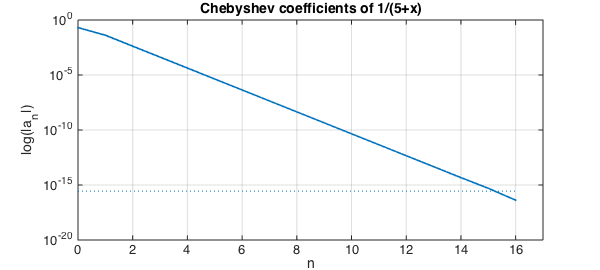
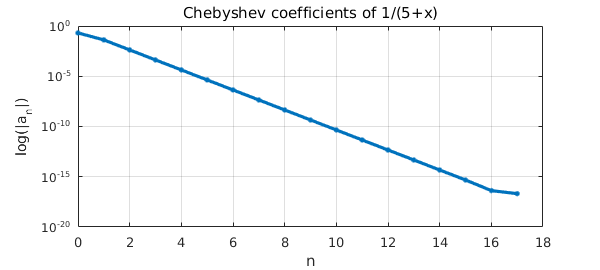
Republish example cheb/ExactChebCoeffs.
LNT made a few edits, but for some reason, the publishing procedure
isn't working for him.  Will need to investigate further.

Changed region(s): [[0.03, 0.0, 0.93, 0.9481], [0.51, 0.9481, 0.54, 1.0]]

diff --git a/examples/cheb/ExactChebCoeffs.html b/examples/cheb/ExactChebCoeffs.html
@@ -62,58 +62,51 @@
 <div class="row main">
 <div id='content' class="col-sm-12 example" role="main">
 <h3 id="1-introduction">1. Introduction</h3>
-<p>In this example, we shall compare the results of the Chebfun construction process to a known closed-form formula for the Chebyshev expansion coefficients of a function with a pole.</p>
-<p>This gives us an excellent excuse to visit some interesting approximation theory from the 1960s!</p>
+<p>In this example, we shall compare the results of the Chebfun construction process to a known closed-form formula for the Chebyshev expansion coefficients of a function with a pole. This gives us an excellent excuse to visit some interesting approximation theory from the 1960s!</p>
 <h3 id="2-the-residue-method-of-elliott">2. The residue method of Elliott</h3>
 <p>For certain functions, explicit formulas for the coefficients in the Chebsyhev series expansion may be obtained using a contour integral technique described by Elliott [1]. Here is how it works:</p>
-<p>The Chebsyhev coefficients of a Lipschitz-continuous function $f$ can be determined by the integral $$ a_n = \frac{2}{\pi} \int_{-1}^{1} \frac{f(x)T_n(x)}{\sqrt{1-x^2}} {\rm d} x.$$</p>
-<p>If $f(x)$ is analytic within a particular contour $C$ in the complex plane, then by Cauchy's integral formula, we can also write $$ f(x) = \frac{1}{2 \pi i} \int_{C} \frac{f(z)}{z-x} {\rm d} z. $$</p>
-<p>If $C$ is large enough to enclose the unit interval, then the second of these two formulas can be substituted into the first and the orders of integration interchanged to give $$ a_n = \frac{1}{\pi^2 i} \int_C f(z) \int_{-1}^{1} \frac{T_n(x) {\rm d} x}{(z-x)\sqrt{1-x^2}} {\rm d} z. $$</p>
-<p>The integral with respect to $x$ can be computed exactly so that we end up with $$a_n = \frac{1}{\pi i} \int_{C} \frac{f(z)}{\sqrt{z^2-1}(z \pm \sqrt{z^2-1})^n} {\rm d} z. $$</p>
-<p>Here, we note that $\rho = |z \pm \sqrt{z^2-1}|$ is the parameter of the usual Bernstein Ellipse $E_\rho$ with the point $z = x + iy$ on its boundary.</p>
-<p>So, if $f$ is a function with a pole at $z_0$ whose integral around $E_\rho$ tends to zero as $\rho \to \infty$, then by the residue theorem we have $$ a_n = \frac{-2r_0}{\sqrt{z_0^2-1}(z_0 \pm \sqrt{z_0^2-1})^n}, $$ where $r_0$ is the residue of the pole at $z_0$.</p>
+<p>The Chebsyhev coefficients of a Lipschitz-continuous function $f$ can be determined by the integral $$ a_n = \frac{2}{\pi} \int_{-1}^{1} \frac{f(x)T_n(x)}{\sqrt{1-x^2}} {\rm d} x. $$ If $f(x)$ is analytic within a particular contour $C$ in the complex plane, then by Cauchy's integral formula, we can also write $$ f(x) = \frac{1}{2 \pi i} \int_{C} \frac{f(z)}{z-x} {\rm d} z. $$ If $C$ is large enough to enclose the unit interval, then the second of these two formulas can be substituted into the first and the orders of integration interchanged to give $$ a_n = \frac{1}{\pi^2 i} \int_C f(z) \int_{-1}^{1} \frac{T_n(x) {\rm d} x}{(z-x)\sqrt{1-x^2}} {\rm d} z. $$ The integral with respect to $x$ can be computed exactly so that we end up with $$ a_n = \frac{1}{\pi i} \int_{C} \frac{f(z)}{\sqrt{z^2-1}(z \pm \sqrt{z^2-1})^n} {\rm d} z. $$</p>
+<p>Here, we note that $\rho = |z \pm \sqrt{z^2-1}|$ is the parameter of the usual Bernstein ellipse $E_\rho$ with the point $z = x + iy$ on its boundary. So, if $f$ is a function with a pole at $z_0$ whose integral around $E_\rho$ tends to zero as $\rho \to \infty$, then by the residue theorem we have $$ a_n = \frac{-2r_0}{\sqrt{z_0^2-1}(z_0 \pm \sqrt{z_0^2-1})^n}, $$ where $r_0$ is the residue of the pole at $z_0$.</p>
 <h3 id="3-a-function-with-pole">3. A function with  pole</h3>
-<p>As an example, consider the function $$ f(x) = \frac{1}{5 + x} . $$</p>
-<p>This function can be represented in Chebfun by an interpolant in 17 points.</p>
+<p>As an example, consider the function $$ f(x) = \frac{1}{5 + x}. $$ This function can be represented in Chebfun by an interpolant in 17 points.</p>
 <pre class="mcode-input">f  = @(x) 1./(5+x);
 fc = chebfun(f);
 k = 1:length(fc);</pre>
 
-<p>The function has a pole at $-5$ with residue $1$. Substituting these values into the above formula then gives the following exact expression for the Chebyshev expansion coefficients: $$ a_n =  \frac{1}{\sqrt{6}} \frac{(-1)^n}{(5+\sqrt{24})^n} $$</p>
-<p>The theoretical coefficients match those computed by Chebfun, apart from floating point representation and aliasing effects. The $a_0$ coefficient is out by the usual factor of $2$.</p>
+<p>The function has a pole at $-5$ with residue $1$. Substituting these values into the above formula then gives the following exact expression for the Chebyshev expansion coefficients: $$ a_n =  \frac{1}{\sqrt{6}} \frac{(-1)^n}{(5+\sqrt{24})^n}. $$ The theoretical coefficients match those computed by Chebfun, apart from floating point representation and aliasing effects. The $a_0$ coefficient is out by the usual factor of $2$:</p>
 <pre class="mcode-input">exact_coeffs = (1/sqrt(6)*(-1).^(k-1)./(5+sqrt(24)).^(k-1)).';
 cheb_coeffs = chebcoeffs(fc);
 display([exact_coeffs cheb_coeffs exact_coeffs-cheb_coeffs])
 
-FS = 'fontsize'; fs = 14;
-plotcoeffs(fc,'linewidth',1.6)
-title('Chebyshev coefficients of 1/(5+x)',FS,fs)
+plotcoeffs(fc,'.-')
+title('Chebyshev coefficients of 1/(5+x)')
 xlabel('n'), ylabel('log(|a_n|)'), grid on</pre>
 
 <pre class="mcode-output">ans =
    0.408248290463863   0.204124145231932   0.204124145231932
-  -0.041241452319315  -0.041241452319315   0.000000000000000
+  -0.041241452319315  -0.041241452319315                   0
    0.004166232729288   0.004166232729288  -0.000000000000000
-  -0.000420874973563  -0.000420874973563   0.000000000000000
-   0.000042517006342   0.000042517006342  -0.000000000000000
-  -0.000004295089853  -0.000004295089853  -0.000000000000000
+  -0.000420874973563  -0.000420874973563  -0.000000000000000
+   0.000042517006342   0.000042517006342   0.000000000000000
+  -0.000004295089853  -0.000004295089853   0.000000000000000
    0.000000433892186   0.000000433892186   0.000000000000000
   -0.000000043832012  -0.000000043832012   0.000000000000000
-   0.000000004427932   0.000000004427932  -0.000000000000000
+   0.000000004427932   0.000000004427932   0.000000000000000
   -0.000000000447312  -0.000000000447312  -0.000000000000000
    0.000000000045188   0.000000000045188  -0.000000000000000
   -0.000000000004565  -0.000000000004565   0.000000000000000
    0.000000000000461   0.000000000000461   0.000000000000000
   -0.000000000000047  -0.000000000000047   0.000000000000000
    0.000000000000005   0.000000000000005   0.000000000000000
-  -0.000000000000000  -0.000000000000001   0.000000000000000
+  -0.000000000000000  -0.000000000000000   0.000000000000000
    0.000000000000000   0.000000000000000   0.000000000000000
+  -0.000000000000000  -0.000000000000000   0.000000000000000
 </pre>
 
-<p><img src="img/ExactChebCoeffs_01.png" class="figure" alt=""></p>
+<p><img src="img/ExactChebCoeffs_01.png" class="figure" alt=""/></p>
 <h3 id="references">References</h3>
 <ol>
-<li>D. Elliott, The evaluation and estimation of the coefficients in the    Chebyshev series expansion of a function, <em>Mathematics of    Computation</em>, 18 (1964), 274-284.</li>
+<li>D. Elliott, The evaluation and estimation of the coefficients in the Chebyshev series expansion of a function, <em>Mathematics of Computation</em>, 18 (1964), 274-284.</li>
 </ol></div>
         </div>
     </div>

diff --git a/examples/cheb/img/ExactChebCoeffs.html b/examples/cheb/img/ExactChebCoeffs.html
@@ -9,9 +9,7 @@ meta: "(Chebfun example cheb/ExactChebCoeffs.m) [Tags: #Chebyshevcoefficients, #
 
 ## 1. Introduction
 
-In this example, we shall compare the results of the Chebfun construction process to a known closed-form formula for the Chebyshev expansion coefficients of a function with a pole.
-
-This gives us an excellent excuse to visit some interesting approximation theory from the 1960s!
+In this example, we shall compare the results of the Chebfun construction process to a known closed-form formula for the Chebyshev expansion coefficients of a function with a pole. This gives us an excellent excuse to visit some interesting approximation theory from the 1960s!
 
 
 
@@ -19,62 +17,50 @@ This gives us an excellent excuse to visit some interesting approximation theory
 
 For certain functions, explicit formulas for the coefficients in the Chebsyhev series expansion may be obtained using a contour integral technique described by Elliott [1]. Here is how it works:
 
-The Chebsyhev coefficients of a Lipschitz-continuous function $f$ can be determined by the integral $$ a_n = \frac{2}{\pi} \int_{-1}^{1} \frac{f(x)T_n(x)}{\sqrt{1-x^2}} {\rm d} x.$$
+The Chebsyhev coefficients of a Lipschitz-continuous function $f$ can be determined by the integral $$ a_n = \frac{2}{\pi} \int_{-1}^{1} \frac{f(x)T_n(x)}{\sqrt{1-x^2}} {\rm d} x. $$ If $f(x)$ is analytic within a particular contour $C$ in the complex plane, then by Cauchy's integral formula, we can also write $$ f(x) = \frac{1}{2 \pi i} \int_{C} \frac{f(z)}{z-x} {\rm d} z. $$ If $C$ is large enough to enclose the unit interval, then the second of these two formulas can be substituted into the first and the orders of integration interchanged to give $$ a_n = \frac{1}{\pi^2 i} \int_C f(z) \int_{-1}^{1} \frac{T_n(x) {\rm d} x}{(z-x)\sqrt{1-x^2}} {\rm d} z. $$ The integral with respect to $x$ can be computed exactly so that we end up with $$ a_n = \frac{1}{\pi i} \int_{C} \frac{f(z)}{\sqrt{z^2-1}(z \pm \sqrt{z^2-1})^n} {\rm d} z. $$
 
-If $f(x)$ is analytic within a particular contour $C$ in the complex plane, then by Cauchy's integral formula, we can also write $$ f(x) = \frac{1}{2 \pi i} \int_{C} \frac{f(z)}{z-x} {\rm d} z. $$
-
-If $C$ is large enough to enclose the unit interval, then the second of these two formulas can be substituted into the first and the orders of integration interchanged to give $$ a_n = \frac{1}{\pi^2 i} \int_C f(z) \int_{-1}^{1} \frac{T_n(x) {\rm d} x}{(z-x)\sqrt{1-x^2}} {\rm d} z. $$
-
-The integral with respect to $x$ can be computed exactly so that we end up with $$a_n = \frac{1}{\pi i} \int_{C} \frac{f(z)}{\sqrt{z^2-1}(z \pm \sqrt{z^2-1})^n} {\rm d} z. $$
-
-Here, we note that $\rho = |z \pm \sqrt{z^2-1}|$ is the parameter of the usual Bernstein Ellipse $E_\rho$ with the point $z = x + iy$ on its boundary.
-
-So, if $f$ is a function with a pole at $z_0$ whose integral around $E_\rho$ tends to zero as $\rho \to \infty$, then by the residue theorem we have $$ a_n = \frac{-2r_0}{\sqrt{z_0^2-1}(z_0 \pm \sqrt{z_0^2-1})^n}, $$ where $r_0$ is the residue of the pole at $z_0$.
+Here, we note that $\rho = |z \pm \sqrt{z^2-1}|$ is the parameter of the usual Bernstein ellipse $E_\rho$ with the point $z = x + iy$ on its boundary. So, if $f$ is a function with a pole at $z_0$ whose integral around $E_\rho$ tends to zero as $\rho \to \infty$, then by the residue theorem we have $$ a_n = \frac{-2r_0}{\sqrt{z_0^2-1}(z_0 \pm \sqrt{z_0^2-1})^n}, $$ where $r_0$ is the residue of the pole at $z_0$.
 
 
 
 ## 3. A function with  pole
 
-As an example, consider the function $$ f(x) = \frac{1}{5 + x} . $$
-
-This function can be represented in Chebfun by an interpolant in 17 points.
+As an example, consider the function $$ f(x) = \frac{1}{5 + x}. $$ This function can be represented in Chebfun by an interpolant in 17 points.
 
 <pre class="mcode-input">f  = @(x) 1./(5+x);
 fc = chebfun(f);
-k = 1:length(fc);</pre>The function has a pole at $-5$ with residue $1$. Substituting these values into the above formula then gives the following exact expression for the Chebyshev expansion coefficients: $$ a_n =  \frac{1}{\sqrt{6}} \frac{(-1)^n}{(5+\sqrt{24})^n} $$
-
-The theoretical coefficients match those computed by Chebfun, apart from floating point representation and aliasing effects. The $a_0$ coefficient is out by the usual factor of $2$.
+k = 1:length(fc);</pre>The function has a pole at $-5$ with residue $1$. Substituting these values into the above formula then gives the following exact expression for the Chebyshev expansion coefficients: $$ a_n =  \frac{1}{\sqrt{6}} \frac{(-1)^n}{(5+\sqrt{24})^n}. $$ The theoretical coefficients match those computed by Chebfun, apart from floating point representation and aliasing effects. The $a_0$ coefficient is out by the usual factor of $2$:
 
 <pre class="mcode-input">exact_coeffs = (1/sqrt(6)*(-1).^(k-1)./(5+sqrt(24)).^(k-1)).';
 cheb_coeffs = chebcoeffs(fc);
 display([exact_coeffs cheb_coeffs exact_coeffs-cheb_coeffs])
 
-FS = 'fontsize'; fs = 14;
-plotcoeffs(fc,'linewidth',1.6)
-title('Chebyshev coefficients of 1/(5+x)',FS,fs)
+plotcoeffs(fc,'.-')
+title('Chebyshev coefficients of 1/(5+x)')
 xlabel('n'), ylabel('log(|a_n|)'), grid on</pre><pre class="mcode-output">ans =
    0.408248290463863   0.204124145231932   0.204124145231932
-  -0.041241452319315  -0.041241452319315   0.000000000000000
+  -0.041241452319315  -0.041241452319315                   0
    0.004166232729288   0.004166232729288  -0.000000000000000
-  -0.000420874973563  -0.000420874973563   0.000000000000000
-   0.000042517006342   0.000042517006342  -0.000000000000000
-  -0.000004295089853  -0.000004295089853  -0.000000000000000
+  -0.000420874973563  -0.000420874973563  -0.000000000000000
+   0.000042517006342   0.000042517006342   0.000000000000000
+  -0.000004295089853  -0.000004295089853   0.000000000000000
    0.000000433892186   0.000000433892186   0.000000000000000
   -0.000000043832012  -0.000000043832012   0.000000000000000
-   0.000000004427932   0.000000004427932  -0.000000000000000
+   0.000000004427932   0.000000004427932   0.000000000000000
   -0.000000000447312  -0.000000000447312  -0.000000000000000
    0.000000000045188   0.000000000045188  -0.000000000000000
   -0.000000000004565  -0.000000000004565   0.000000000000000
    0.000000000000461   0.000000000000461   0.000000000000000
   -0.000000000000047  -0.000000000000047   0.000000000000000
    0.000000000000005   0.000000000000005   0.000000000000000
-  -0.000000000000000  -0.000000000000001   0.000000000000000
+  -0.000000000000000  -0.000000000000000   0.000000000000000
    0.000000000000000   0.000000000000000   0.000000000000000
-</pre><img src="img/ExactChebCoeffs_01.png" class="figure" alt="">
+  -0.000000000000000  -0.000000000000000   0.000000000000000
+</pre><img src="img/ExactChebCoeffs_01.png" class="figure" alt=""/>
 
 
 
 ## References
 
-1. D. Elliott, The evaluation and estimation of the coefficients in the    Chebyshev series expansion of a function, _Mathematics of    Computation_, 18 (1964), 274-284.
+1. D. Elliott, The evaluation and estimation of the coefficients in the Chebyshev series expansion of a function, _Mathematics of Computation_, 18 (1964), 274-284.
 

diff --git a/index.html b/index.html
@@ -208,5 +208,5 @@ plot(minx(1),minx(2),'.w')
     <script type="text/javascript" src="/js/config.js"></script>
     <script type="text/javascript" src="/js/jquery.flexslider-min.js"></script>
   </body>
-<!-- Compiled on Wednesday, 06 April 2016 at 13:50. -->
+<!-- Compiled on Wednesday, 13 April 2016 at 13:07. -->
 </html>

diff --git a/examples/cheb/ExactChebCoeffs.m b/examples/cheb/ExactChebCoeffs.m
@@ -9,7 +9,6 @@
 % In this example, we shall compare the results of the Chebfun construction
 % process to a known closed-form formula for the Chebyshev expansion
 % coefficients of a function with a pole.
-%
 % This gives us an excellent excuse to visit some interesting approximation
 % theory from the 1960s!
 
@@ -17,35 +16,29 @@
 % For certain functions, explicit formulas for the coefficients in the
 % Chebsyhev series expansion may be obtained using a contour integral
 % technique described by Elliott [1]. Here is how it works:
-%
+
+%%
 % The Chebsyhev coefficients of a Lipschitz-continuous function $f$ can be
 % determined by the integral
 % $$ a_n = \frac{2}{\pi} \int_{-1}^{1} \frac{f(x)T_n(x)}{\sqrt{1-x^2}}
-% {\rm d} x.$$
-
-%%
+% {\rm d} x. $$
 % If $f(x)$ is analytic within a particular contour $C$ in the complex plane,
 % then by Cauchy's integral formula, we can also write
 % $$ f(x) = \frac{1}{2 \pi i} \int_{C} \frac{f(z)}{z-x} {\rm d} z. $$
-
-%%
 % If $C$ is large enough to enclose the unit interval, then the second of
 % these two formulas can be substituted into the first and the orders of
 % integration interchanged to give
 % $$ a_n = \frac{1}{\pi^2 i} \int_C f(z) \int_{-1}^{1}
 % \frac{T_n(x) {\rm d} x}{(z-x)\sqrt{1-x^2}} {\rm d} z. $$
-
-%%
 % The integral with respect to $x$ can be computed exactly so that we end up
 % with
-% $$a_n = \frac{1}{\pi i} \int_{C} \frac{f(z)}{\sqrt{z^2-1}(z \pm
+% $$ a_n = \frac{1}{\pi i} \int_{C} \frac{f(z)}{\sqrt{z^2-1}(z \pm
 % \sqrt{z^2-1})^n} {\rm d} z. $$
 
 %%
 % Here, we note that $\rho = |z \pm \sqrt{z^2-1}|$ is the parameter of the
-% usual Bernstein Ellipse $E_\rho$ with the point $z = x + iy$ on its
+% usual Bernstein ellipse $E_\rho$ with the point $z = x + iy$ on its
 % boundary.
-%
 % So, if $f$ is a function with a pole at $z_0$ whose integral around
 % $E_\rho$ tends to zero as $\rho \to \infty$, then by the residue theorem
 % we have
@@ -53,35 +46,31 @@
 % where $r_0$ is the residue of the pole at $z_0$.
 
 %% 3. A function with  pole
-% As an example, consider the function $$ f(x) = \frac{1}{5 + x} . $$
-
-%%
+% As an example, consider the function $$ f(x) = \frac{1}{5 + x}. $$
 % This function can be represented in Chebfun by an interpolant in
 % 17 points.
 f  = @(x) 1./(5+x);
 fc = chebfun(f);
 k = 1:length(fc);
+
 %%
 % The function has a pole at $-5$ with residue $1$. Substituting
 % these values into the above formula then gives the following exact
 % expression for the Chebyshev expansion coefficients:
-% $$ a_n =  \frac{1}{\sqrt{6}} \frac{(-1)^n}{(5+\sqrt{24})^n} $$
-
-%%
+% $$ a_n =  \frac{1}{\sqrt{6}} \frac{(-1)^n}{(5+\sqrt{24})^n}. $$
 % The theoretical coefficients match those computed by Chebfun, apart
 % from floating point representation and aliasing effects. The $a_0$
-% coefficient is out by the usual factor of $2$.
+% coefficient is out by the usual factor of $2$:
 exact_coeffs = (1/sqrt(6)*(-1).^(k-1)./(5+sqrt(24)).^(k-1)).';
 cheb_coeffs = chebcoeffs(fc);
 display([exact_coeffs cheb_coeffs exact_coeffs-cheb_coeffs])
 
-FS = 'fontsize'; fs = 14;
-plotcoeffs(fc,'linewidth',1.6)
-title('Chebyshev coefficients of 1/(5+x)',FS,fs)
+plotcoeffs(fc,'.-')
+title('Chebyshev coefficients of 1/(5+x)')
 xlabel('n'), ylabel('log(|a_n|)'), grid on
 
 %% References
 %
 % 1. D. Elliott, The evaluation and estimation of the coefficients in the
-%    Chebyshev series expansion of a function, _Mathematics of
-%    Computation_, 18 (1964), 274-284.
+% Chebyshev series expansion of a function, _Mathematics of
+% Computation_, 18 (1964), 274-284.
